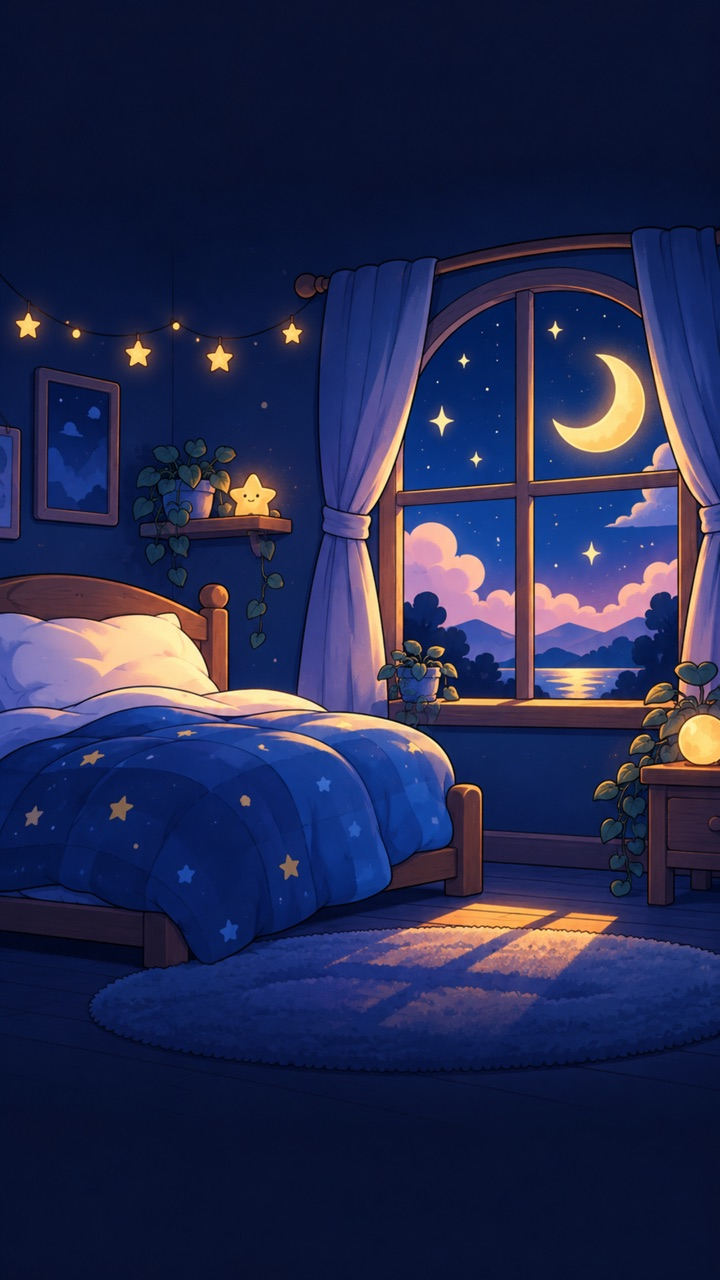
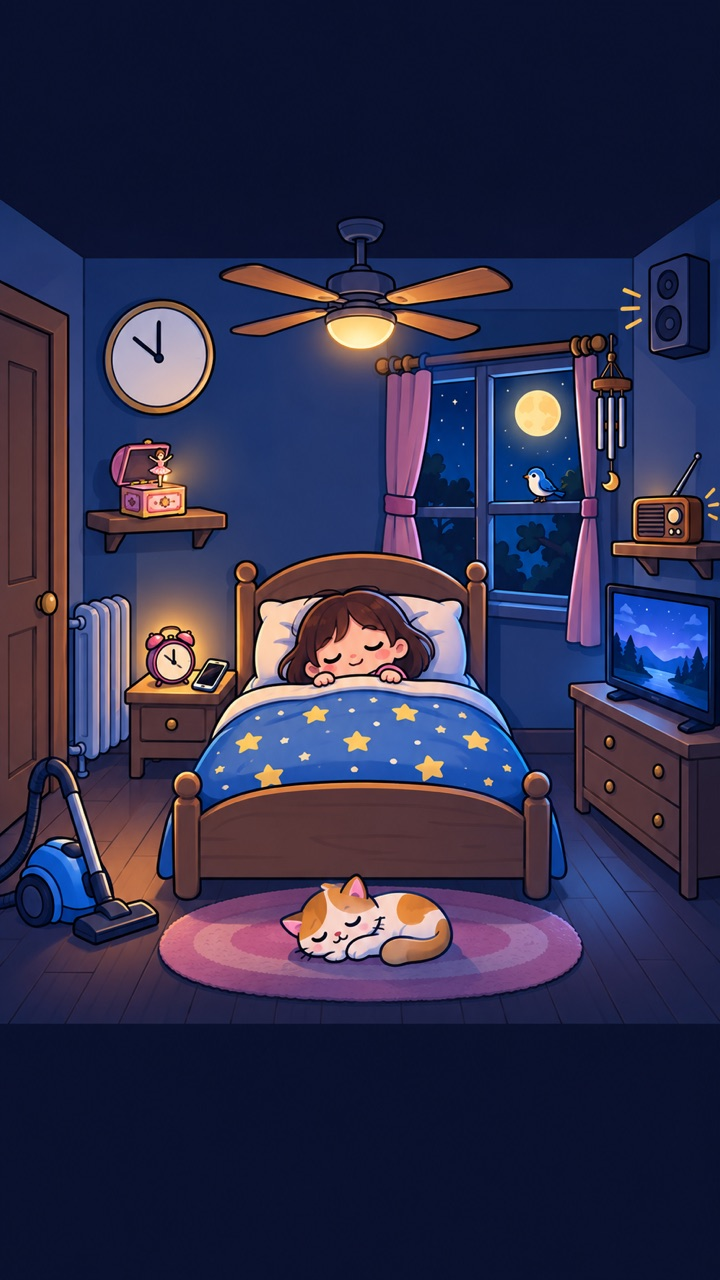
sleep-guard: 背景と15種の騒音レイヤーを追加 (#226)

diff --git a/projects/_labs/sleep-guard/engine.js b/projects/_labs/sleep-guard/engine.js
@@ -14,25 +14,27 @@
   var BASE_DRAIN = 5.0;
   var SPAWN_BASE = 2.0;
   var SPAWN_MIN = 0.65;
-  var MAX_NOISES = 6;
+  var MAX_NOISES = 8;
   var NOISE_GRACE = 2.0;
   var MAX_DT = 0.05;
   var MAX_EVENTS = 80;
 
   var NOISE_TYPES = [
-    { id: 'clock', icon: '⏰', label: '目覚まし時計', drain: 1.0 },
-    { id: 'phone', icon: '📱', label: 'スマホの通知', drain: 0.85 },
-    { id: 'tv', icon: '📺', label: 'テレビ', drain: 1.15 },
-    { id: 'door', icon: '🚪', label: 'ドアの物音', drain: 1.25 },
-    { id: 'vacuum', icon: '🧹', label: '掃除機', drain: 1.35 },
-    { id: 'bird', icon: '🐦', label: '朝の鳥', drain: 0.75 }
-  ];
-
-  var SLOTS = [
-    { x: 0.16, y: 0.27 }, { x: 0.84, y: 0.27 },
-    { x: 0.10, y: 0.41 }, { x: 0.88, y: 0.50 },
-    { x: 0.28, y: 0.79 }, { x: 0.72, y: 0.79 },
-    { x: 0.5, y: 0.16 }
+    { id: 'window', icon: '🪟', label: '窓', drain: 1.2, x: 0.66, y: 0.35, size: 0.30 },
+    { id: 'door', icon: '🚪', label: 'ドア', drain: 1.1, x: 0.10, y: 0.37, size: 0.18 },
+    { id: 'wall-clock', icon: '🕰', label: '時計', drain: 1.0, x: 0.22, y: 0.25, size: 0.13 },
+    { id: 'ceiling-fan', icon: '🌀', label: 'ファン', drain: 1.3, x: 0.49, y: 0.22, size: 0.40 },
+    { id: 'tv', icon: '📺', label: 'TV', drain: 1.2, x: 0.90, y: 0.55, size: 0.20 },
+    { id: 'radio', icon: '📻', label: 'ラジオ', drain: 1.1, x: 0.92, y: 0.42, size: 0.14 },
+    { id: 'alarm-clock', icon: '⏰', label: '目覚まし', drain: 1.0, x: 0.24, y: 0.53, size: 0.09 },
+    { id: 'smartphone', icon: '📱', label: 'スマホ', drain: 0.9, x: 0.30, y: 0.54, size: 0.06 },
+    { id: 'vacuum', icon: '🧹', label: '掃除機', drain: 1.4, x: 0.12, y: 0.67, size: 0.22 },
+    { id: 'cat', icon: '🐱', label: '猫', drain: 0.8, x: 0.52, y: 0.75, size: 0.22 },
+    { id: 'music-box', icon: '🎵', label: 'オルゴール', drain: 0.9, x: 0.20, y: 0.39, size: 0.13 },
+    { id: 'radiator', icon: '♨', label: '暖房', drain: 1.2, x: 0.13, y: 0.53, size: 0.10 },
+    { id: 'wind-chime', icon: '🎐', label: '風鈴', drain: 0.7, x: 0.85, y: 0.32, size: 0.10 },
+    { id: 'neighbor-speaker', icon: '🔊', label: 'スピーカー', drain: 1.3, x: 0.95, y: 0.23, size: 0.10 },
+    { id: 'bird', icon: '🐦', label: '鳥', drain: 0.8, x: 0.74, y: 0.37, size: 0.07 }
   ];
 
   function clamp(v, min, max) { return v < min ? min : (v > max ? max : v); }
@@ -100,26 +102,21 @@
 
   function spawnNoise(state) {
     if (!state || state.noises.length >= MAX_NOISES) return null;
-    var free = SLOTS.filter(function (slot) {
-      for (var i = 0; i < state.noises.length; i++) {
-        var noise = state.noises[i];
-        var dx = noise.x - slot.x * state.width;
-        var dy = noise.y - slot.y * state.height;
-        if (Math.sqrt(dx * dx + dy * dy) < 76) return false;
-      }
-      return true;
-    });
+    var used = {};
+    for (var i = 0; i < state.noises.length; i++) used[state.noises[i].type] = true;
+    var free = NOISE_TYPES.filter(function (type) { return !used[type.id]; });
     if (!free.length) return null;
-    var slot = free[Math.floor(state.rng() * free.length)];
-    var type = NOISE_TYPES[Math.floor(state.rng() * NOISE_TYPES.length)];
+    var type = free[Math.floor(state.rng() * free.length)];
+    var size = Math.max(24, type.size * state.width);
     var noise = {
       id: state.nextNoiseId++,
       type: type.id,
       icon: type.icon,
       label: type.label,
-      x: slot.x * state.width,
-      y: slot.y * state.height,
-      r: Math.max(22, Math.min(state.width, state.height) * 0.055),
+      x: type.x * state.width,
+      y: type.y * state.height,
+      size: size,
+      r: size / 2,
       born: state.time,
       active: false,
       activeAt: state.time + NOISE_GRACE
@@ -185,7 +182,8 @@
       var noise = state.noises[i];
       var dx = x - noise.x;
       var dy = y - noise.y;
-      if (dx * dx + dy * dy <= Math.pow(noise.r * 1.8, 2)) {
+      var hitRadius = noise.size ? Math.max(30, noise.size * 0.58) : noise.r * 1.8;
+      if (dx * dx + dy * dy <= hitRadius * hitRadius) {
         state.noises.splice(i, 1);
         state.sleep = clamp(state.sleep + TAP_GAIN, 0, MAX_SLEEP);
         state.score += 10;
@@ -214,9 +212,17 @@
     state.width = Math.max(280, Number(width) || state.width);
     state.height = Math.max(360, Number(height) || state.height);
     for (var i = 0; i < state.noises.length; i++) {
-      state.noises[i].x = state.noises[i].x / oldW * state.width;
-      state.noises[i].y = state.noises[i].y / oldH * state.height;
-      state.noises[i].r = Math.max(22, Math.min(state.width, state.height) * 0.055);
+      var noise = state.noises[i];
+      var type = NOISE_TYPES.filter(function (item) { return item.id === noise.type; })[0];
+      if (type) {
+        noise.x = type.x * state.width;
+        noise.y = type.y * state.height;
+        noise.size = Math.max(24, type.size * state.width);
+        noise.r = noise.size / 2;
+      } else {
+        noise.x = noise.x / oldW * state.width;
+        noise.y = noise.y / oldH * state.height;
+      }
     }
     return state;
   }
@@ -241,7 +247,8 @@
       result: state.result,
       noises: state.noises.map(function (noise) {
         return { id: noise.id, type: noise.type, icon: noise.icon, label: noise.label,
-                 x: noise.x, y: noise.y, r: noise.r, age: Math.max(0, state.time - noise.born),
+                 x: noise.x, y: noise.y, r: noise.r, size: noise.size,
+                 age: Math.max(0, state.time - noise.born),
                  active: noise.active !== false,
                  activeIn: Math.max(0, noise.activeAt - state.time) };
       })

diff --git a/projects/_labs/sleep-guard/game.js b/projects/_labs/sleep-guard/game.js
@@ -21,7 +21,7 @@
   var shake = 0;
   var flash = 0;
   var muted = loadMuted();
-  var images = { bg: null, sleep: null, awake: null, noise: {} };
+  var images = { bg: null, noise: {} };
   var bgLayout = null;
 
   function nowMs() {
@@ -49,12 +49,10 @@
 
   function preloadAssets() {
     images.bg = loadImage('assets/bg-bedroom.jpg');
-    images.sleep = loadImage('assets/character-sleep.png');
-    images.awake = loadImage('assets/character-awake.png');
     if (!E) return;
     for (var i = 0; i < E.NOISE_TYPES.length; i++) {
       var type = E.NOISE_TYPES[i];
-      images.noise[type.id] = loadImage('assets/noise-' + type.id + '-sheet.png');
+      images.noise[type.id] = loadImage('assets/' + type.id + '-sheet.png');
     }
   }
   function clamp(v, min, max) { return v < min ? min : (v > max ? max : v); }
@@ -279,23 +277,23 @@
     return true;
   }
 
-  function drawCharacterImage(time, awake) {
-    var img = awake ? images.awake : images.sleep;
-    if (!img || !img.complete || !img.naturalWidth || !bgLayout) return false;
-    var scale = bgLayout.scale;
-    var size = 360 * scale;
-    var cx = bgLayout.dx + 165 * scale;
-    var cy = bgLayout.dy + 610 * scale;
-    var bob = awake ? Math.sin(time * 26) * 2.2 * scale : Math.sin(time * 1.7) * 1.8 * scale;
+  function drawAlert(time) {
+    var x = viewW * 0.55;
+    var y = viewH * 0.45 + Math.sin(time * 7) * 2;
     ctx.save();
-    ctx.globalAlpha = 0.25;
-    ctx.fillStyle = '#050816';
+    ctx.fillStyle = 'rgba(20,26,50,.92)';
+    ctx.strokeStyle = 'rgba(255,130,200,.85)';
+    ctx.lineWidth = 2;
     ctx.beginPath();
-    ctx.ellipse(cx, cy + size * 0.27, size * 0.23, size * 0.06, 0, 0, Math.PI * 2);
+    ctx.arc(x, y, 18, 0, Math.PI * 2);
     ctx.fill();
+    ctx.stroke();
+    ctx.fillStyle = '#ff82c8';
+    ctx.font = '900 22px system-ui, sans-serif';
+    ctx.textAlign = 'center';
+    ctx.textBaseline = 'middle';
+    ctx.fillText('!', x, y + 1);
     ctx.restore();
-    ctx.drawImage(img, cx - size / 2, cy - size / 2 + bob, size, size);
-    return true;
   }
 
   function drawBed(time, awake) {
@@ -391,7 +389,7 @@
       ctx.strokeStyle = '#ff82c8';
       ctx.lineWidth = 2;
       ctx.beginPath();
-      ctx.arc(noise.x, noise.y, noise.r * (1.25 + pulse * 0.28), 0, Math.PI * 2);
+      ctx.arc(noise.x, noise.y, noise.size * (0.58 + pulse * 0.12), 0, Math.PI * 2);
       ctx.stroke();
       ctx.globalAlpha = 1;
     } else {
@@ -400,14 +398,14 @@
       ctx.strokeStyle = 'rgba(109,183,255,.8)';
       ctx.lineWidth = 3;
       ctx.beginPath();
-      ctx.arc(noise.x, noise.y, noise.r * 1.35, -Math.PI / 2, -Math.PI / 2 + Math.PI * 2 * progress);
+      ctx.arc(noise.x, noise.y, noise.size * 0.62, -Math.PI / 2, -Math.PI / 2 + Math.PI * 2 * progress);
       ctx.stroke();
       ctx.globalAlpha = 0.68;
     }
 
     ctx.fillStyle = active ? 'rgba(40,22,58,.92)' : 'rgba(18,28,52,.9)';
     ctx.beginPath();
-    ctx.arc(noise.x, noise.y, noise.r, 0, Math.PI * 2);
+    ctx.arc(noise.x, noise.y, noise.size * 0.48, 0, Math.PI * 2);
     ctx.fill();
     ctx.strokeStyle = active ? 'rgba(255,130,200,.8)' : 'rgba(109,183,255,.55)';
     ctx.lineWidth = 2;
@@ -415,17 +413,21 @@
     if (hasSheet) {
       var frame = Math.floor((((state ? state.time : time) - noise.born) * (active ? 4 : 2)) % 2);
       var fw = sheet.naturalWidth / 2;
-      var size = noise.r * 3.2;
+      var size = noise.size;
       ctx.drawImage(sheet, frame * fw, 0, fw, sheet.naturalHeight,
                     noise.x - size / 2, noise.y - size / 2, size, size);
     } else {
-      ctx.font = Math.round(noise.r * 1.15) + 'px "Apple Color Emoji","Segoe UI Emoji",sans-serif';
+      ctx.font = Math.round(noise.size * 0.58) + 'px "Apple Color Emoji","Segoe UI Emoji",sans-serif';
       ctx.fillText(noise.icon, noise.x, noise.y + 1);
     }
     ctx.globalAlpha = 1;
     ctx.font = '700 8px system-ui, sans-serif';
     ctx.fillStyle = active ? 'rgba(255,220,240,.9)' : 'rgba(160,205,255,.9)';
-    ctx.fillText(active ? noise.label : 'まもなく…', noise.x, noise.y + noise.r + 12);
+    var labelX = clamp(noise.x, 38, viewW - 38);
+    var above = ['wall-clock', 'radiator', 'smartphone', 'window', 'neighbor-speaker', 'door'].indexOf(noise.type) >= 0;
+    var labelY = above ? noise.y - noise.size / 2 - 8 : noise.y + noise.size / 2 + 12;
+    labelY = clamp(labelY, 10, viewH - 6);
+    ctx.fillText(active ? noise.label : 'まもなく…', labelX, labelY);
     ctx.restore();
   }
 
@@ -457,8 +459,11 @@
     if (!hasBackground) drawBackdrop(time);
     var awake = !!(state && state.phase === 'run' && state.noises.some(function (noise) { return noise.active !== false; }));
     if (state && state.phase === 'over') awake = true;
-    if (hasBackground) drawCharacterImage(time, awake);
-    else drawBed(time, awake);
+    if (hasBackground) {
+      if (awake) drawAlert(time);
+    } else {
+      drawBed(time, awake);
+    }
     if (state) {
       for (var i = 0; i < state.noises.length; i++) drawNoise(state.noises[i], time);
     }

diff --git a/projects/_labs/sleep-guard/index.html b/projects/_labs/sleep-guard/index.html
@@ -5,7 +5,7 @@
   <meta name="viewport" content="width=device-width, initial-scale=1, viewport-fit=cover">
   <meta name="theme-color" content="#080d1c">
   <title>ねむりのまもり - 睡眠防衛ゲーム</title>
-  <link rel="stylesheet" href="style.css?v=20261030b">
+  <link rel="stylesheet" href="style.css?v=20261030c">
 </head>
 <body>
   <div id="app">
@@ -61,9 +61,9 @@
     </footer>
   </div>
 
-  <script src="audio.js?v=20261030b"></script>
-  <script src="engine.js?v=20261030b"></script>
-  <script src="game.js?v=20261030b"></script>
+  <script src="audio.js?v=20261030c"></script>
+  <script src="engine.js?v=20261030c"></script>
+  <script src="game.js?v=20261030c"></script>
   <script src="../../_shared/game-back.js"></script>
 </body>
 </html>

diff --git a/projects/_labs/sleep-guard/test-engine.js b/projects/_labs/sleep-guard/test-engine.js
@@ -5,6 +5,8 @@ var passed = 0;
 function assert(cond, msg) { if (!cond) throw new Error('assert failed: ' + msg); passed++; }
 function log(msg) { print(msg); }
 
+assert(E.NOISE_TYPES.length === 15 && E.NOISE_TYPES.every(function (t) { return t.x >= 0 && t.x <= 1 && t.y >= 0 && t.y <= 1 && t.size > 0; }), '背景に合わせた15種類の騒音位置');
+
 var g = E.createGame({ rng: E.mulberry32(1) });
 assert(g.phase === 'idle' && g.sleep === E.START_SLEEP, '開始前は1/3ゲージ');
 assert(E.start(g) === true && g.phase === 'run', '開始できる');

diff --git a/projects/_labs/sleep-guard/style.css b/projects/_labs/sleep-guard/style.css
@@ -90,8 +90,10 @@ body {
 }
 #arena {
   display: block;
-  width: 100%;
+  width: auto;
   height: 100%;
+  max-width: 100%;
+  aspect-ratio: 9 / 16;
   border-radius: 18px;
   border: 1px solid rgba(120, 160, 255, .24);
   background: #030611;

diff --git a/projects/_labs/sleep-guard/README.md b/projects/_labs/sleep-guard/README.md
@@ -13,13 +13,13 @@
 
 ## 騒音
 
-目覚まし時計、スマホの通知、テレビ、ドアの物音、掃除機、朝の鳥。種類によってゲージの減り方が変わります。時間が経つほど出現間隔が短くなります。
+窓、ドア、壁掛け時計、シーリングファン、テレビ、ラジオ、目覚まし時計、スマホ、掃除機、猫、オルゴール、ラジエーター、風鈴、隣人のスピーカー、朝の鳥の15種類。背景の各オブジェクト位置に出現し、種類によってゲージの減り方が変わります。時間が経つほど出現間隔が短くなります。
 
 ## 構成
 
 | ファイル | 役割 |
 | --- | --- |
-| `assets/` | 背景・キャラクター・騒音2フレーム素材 |
+| `assets/` | 背景（眠るキャラクター入り）・騒音15種の2フレーム素材 |
 | `audio.js` | Web Audio のBGM・効果音 |
 | `engine.js` | 睡眠ゲージ、騒音生成、タップ判定、クリア/ゲームオーバー |
 | `game.js` | Canvas 2D 描画、入力、HUD、`window.__GAME__` |
@@ -49,7 +49,7 @@ jsc test-smoke.js
 - BGMはBPM72の静かなループ。開始時に再生し、終了時に停止
 - 騒音が鳴り始める時・タップ・クリア・ゲームオーバーに効果音
 - 右下の「音 ON/OFF」で切り替え、設定はlocalStorageに保存
-- 背景・キャラクター・騒音アイコンは `assets/` の画像を使用
+- 背景・騒音アイコンは `assets/` の画像を使用
 - 騒音アイコンは2フレームのスプライトシートをループ再生
 - 画像が読み込めない場合はCanvasのベクター描画にフォールバック
 
@@ -57,5 +57,5 @@ jsc test-smoke.js
 
 - 睡眠ゲージは静かなときに増え、騒音の数と種類に応じて減る
 - タップすると騒音が消え、ゲージが少し回復する
-- 騒音は出現から2秒後に鳴り始める。最大6つまで重複し、時間経過で出現間隔が短くなる
+- 騒音は出現から2秒後に鳴り始める。15種類から最大8つまで重複し、時間経過で出現間隔が短くなる
 - ゲージ開始値33%は「まだ眠りの入り口」を表す
